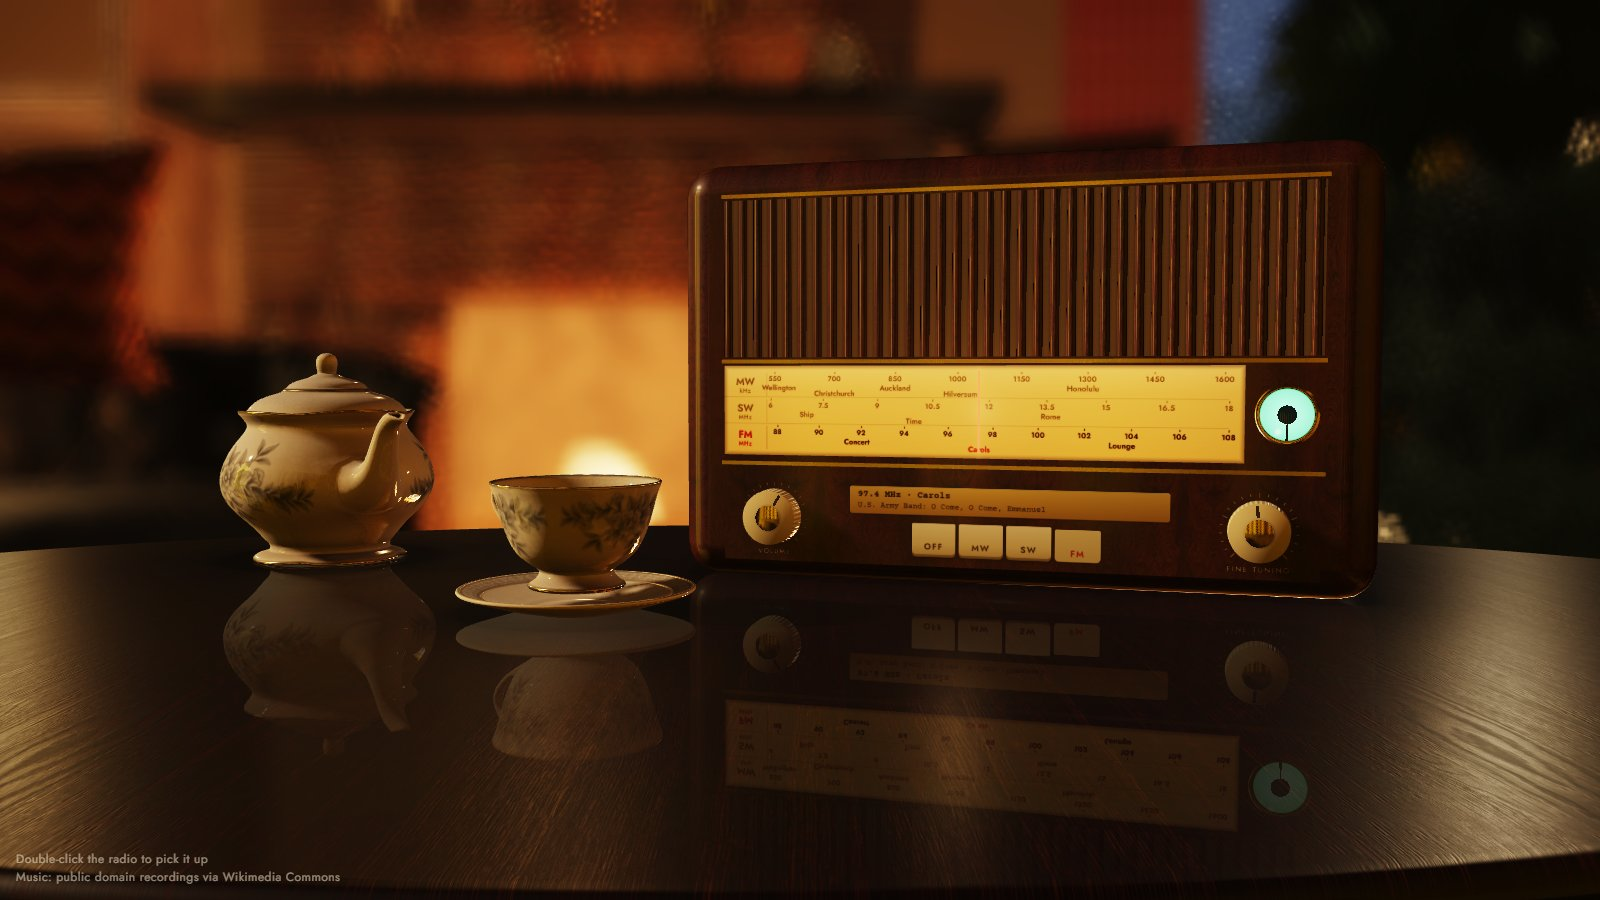
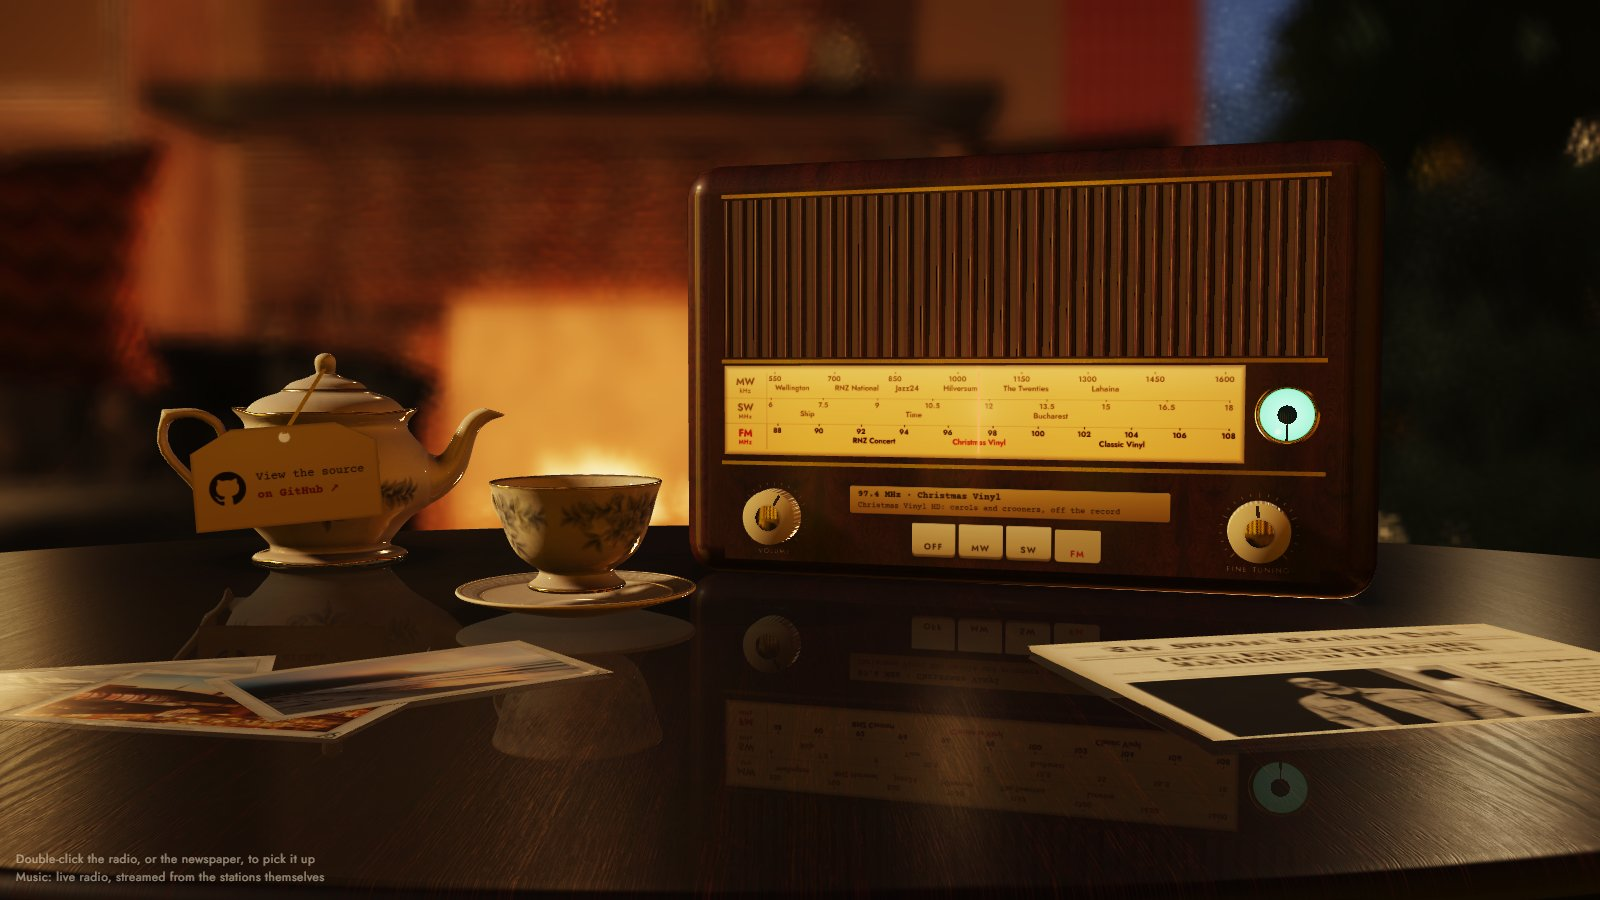
README: new screenshot with the live dial and the folded paper

diff --git a/README.md b/README.md
@@ -2,7 +2,7 @@
 
 **Live:** https://justin-cole.vercel.app (Chrome or Edge 157+)
 
-![The radio on a coffee table by the fire](docs/screenshot.jpg)
+![The radio on a coffee table by the fire, tuned to Christmas Vinyl, with the evening paper folded beside it](docs/screenshot.jpg)
 
 A 1950s valve radio on a coffee table by the fire, in the browser. Its dial, station plate, piano keys and knobs are real HTML drawn onto a WebGL radio with **HTML-in-Canvas**, and they're built with **ui-sdk**, so people (mouse, keyboard, screen reader) and AI agents can all use them.
 
